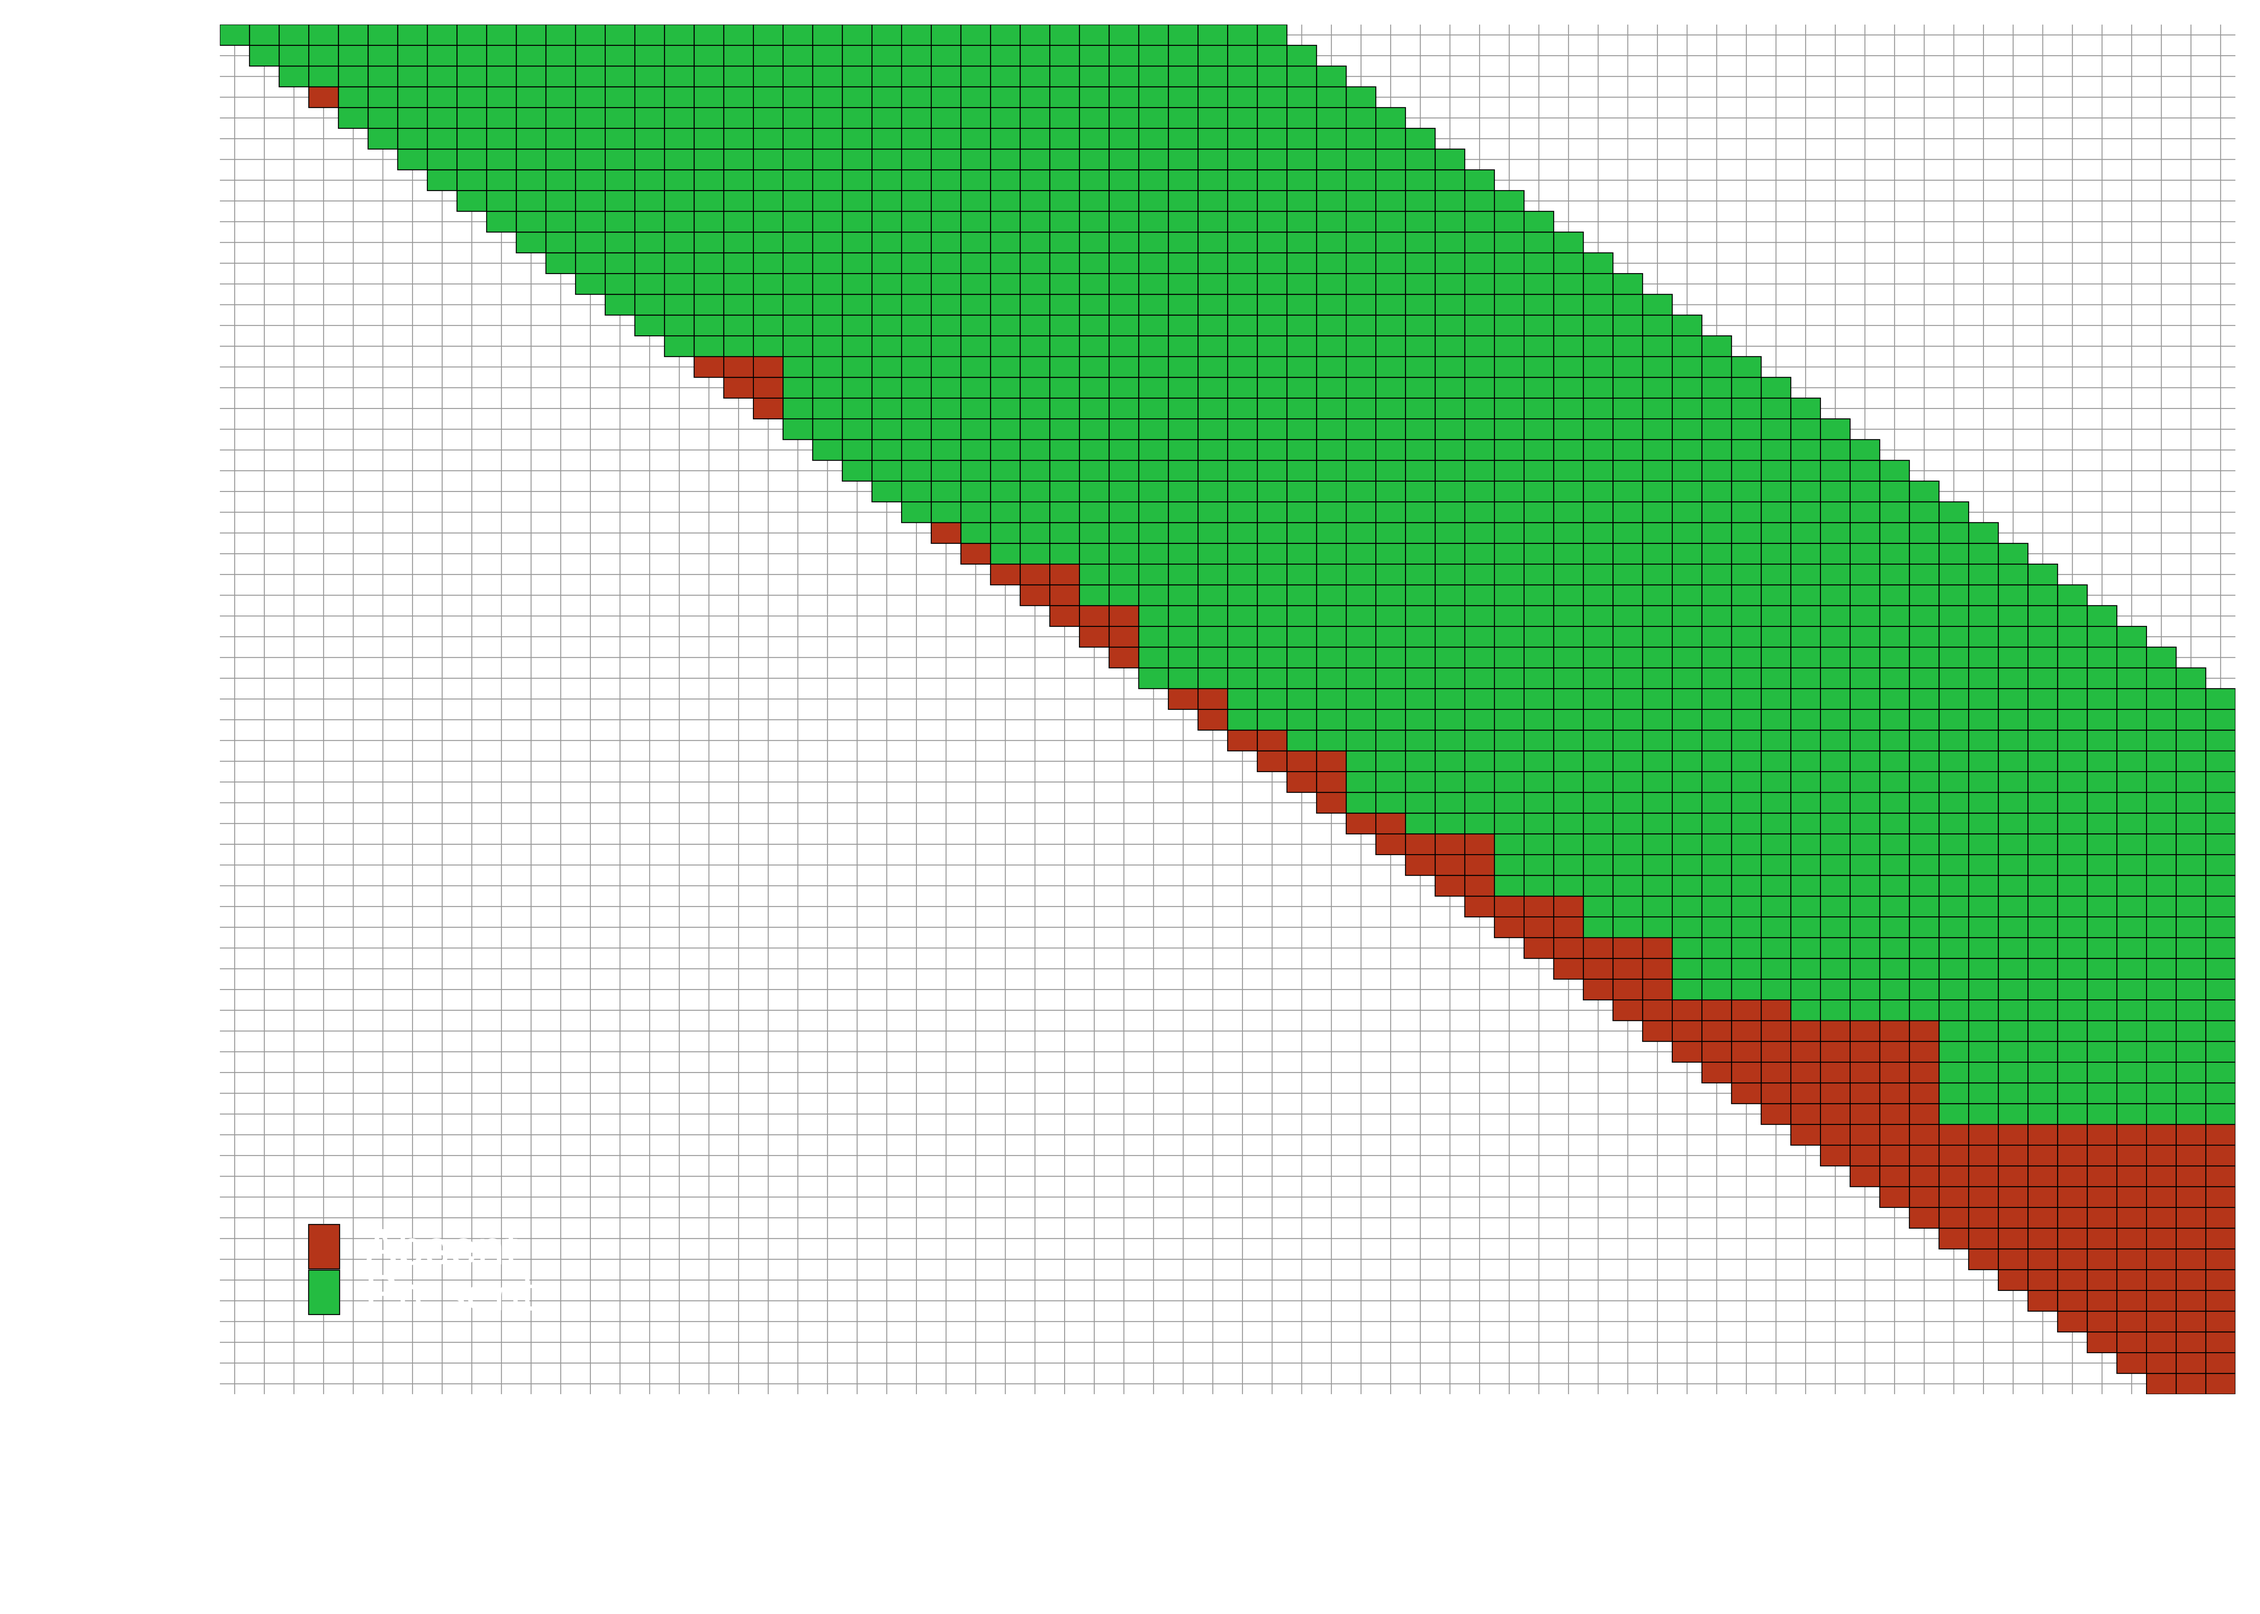
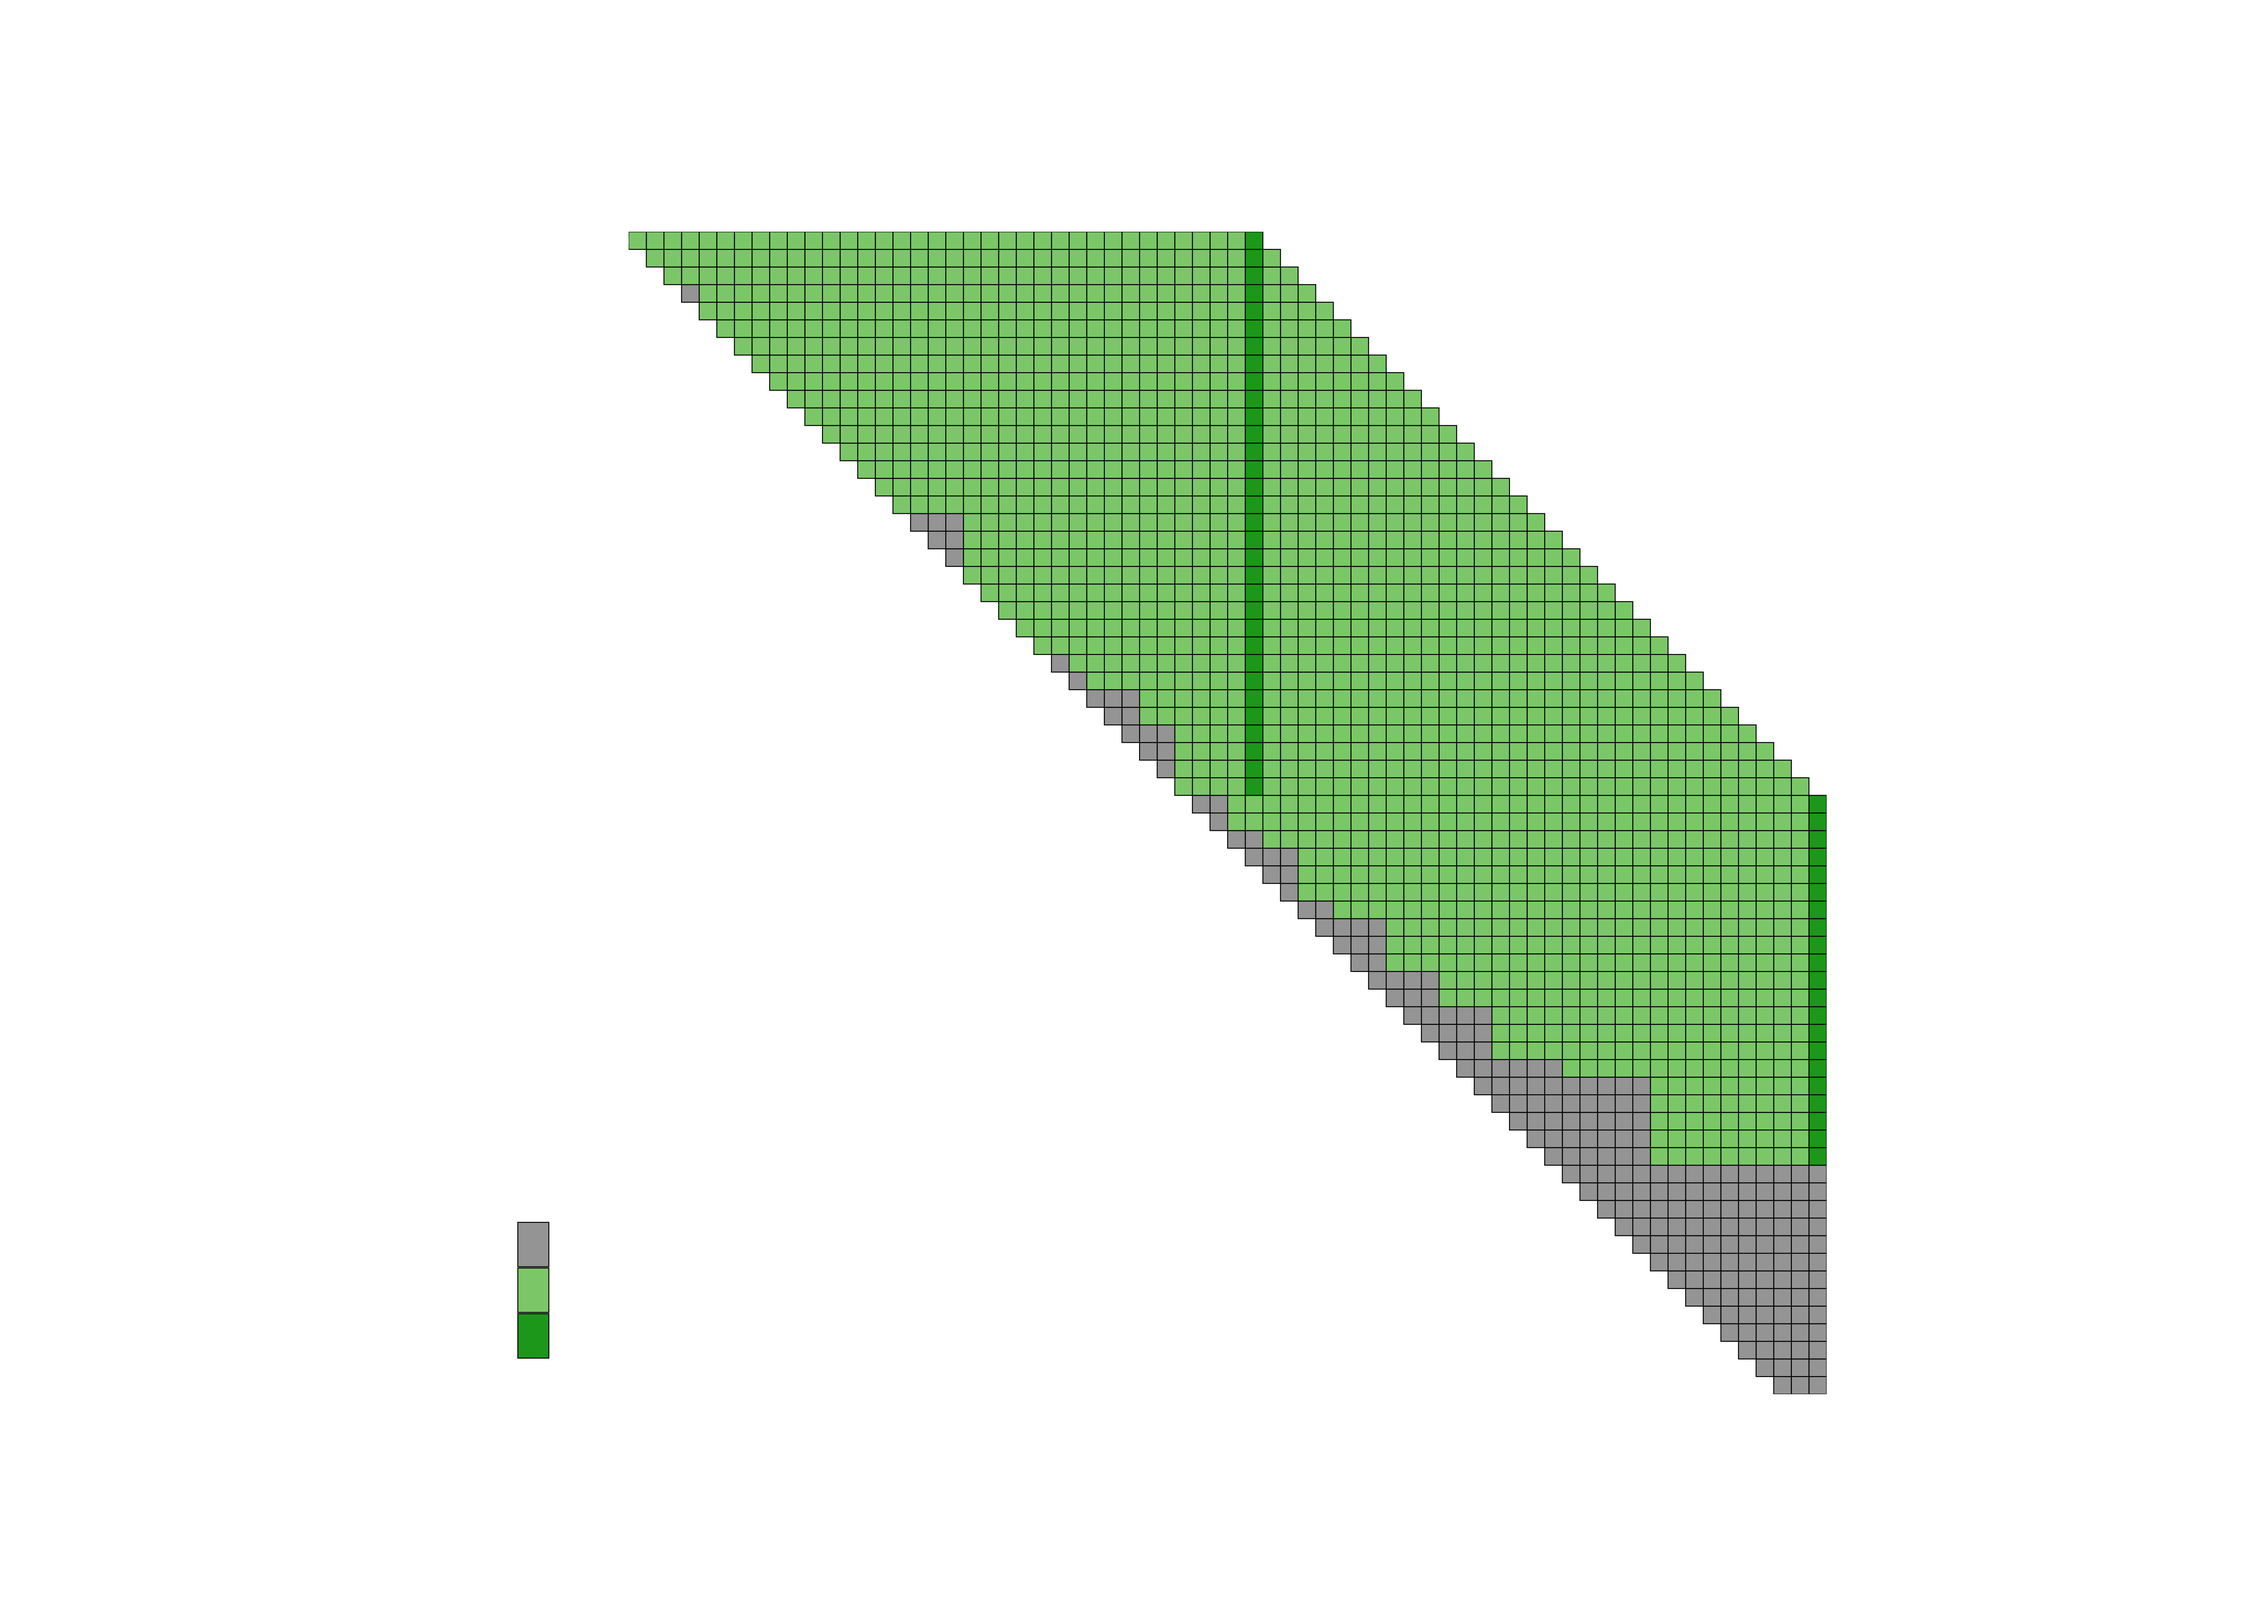
updating readme

diff --git a/README.md b/README.md
@@ -45,11 +45,12 @@ package functions.
 
 ![](README_files/figure-gfm/availability-plot-1.png)<!-- -->
 
-For more details use function fs_report - specify police force, data
-series, and time span, and the function returns a plot summarising the
-presence/absence of the relevant files across the relevant folders.
-Here’s an example of the plot for Wiltshire Police Force’s stop and
-search data for the months of Jan 2019 to June 2024.
+Function fs_report supplies more details about a given police force,
+data series, and time span. When police force, data series, and time
+span are specified, the function returns a plot summarising the
+presence/absence of the relevant files across the relevant folders. The
+plot additionally highlights which folders would be downloaded/ files
+would be extracted by the function arc_extract(). Here’s an example:
 
 ![](README_files/figure-gfm/fs-plot-1.png)<!-- -->
 
